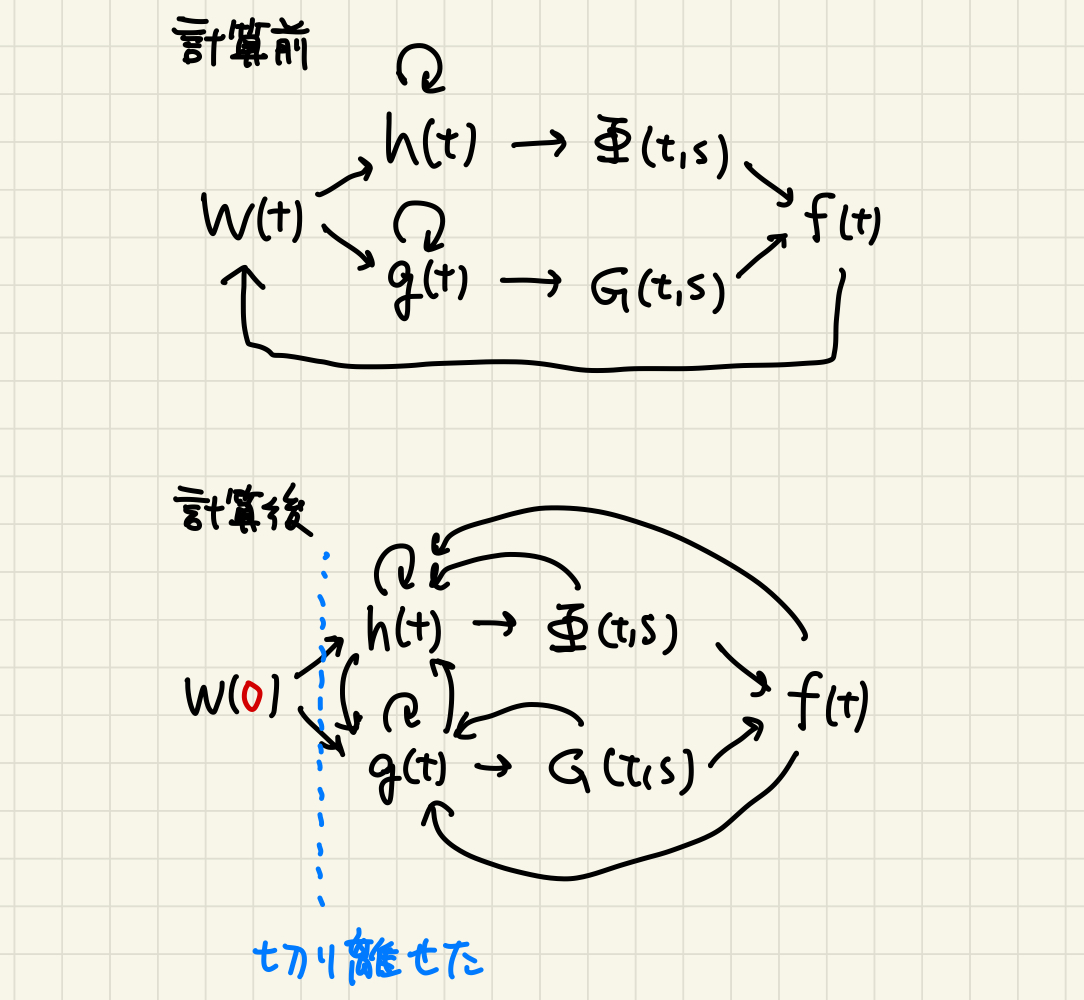
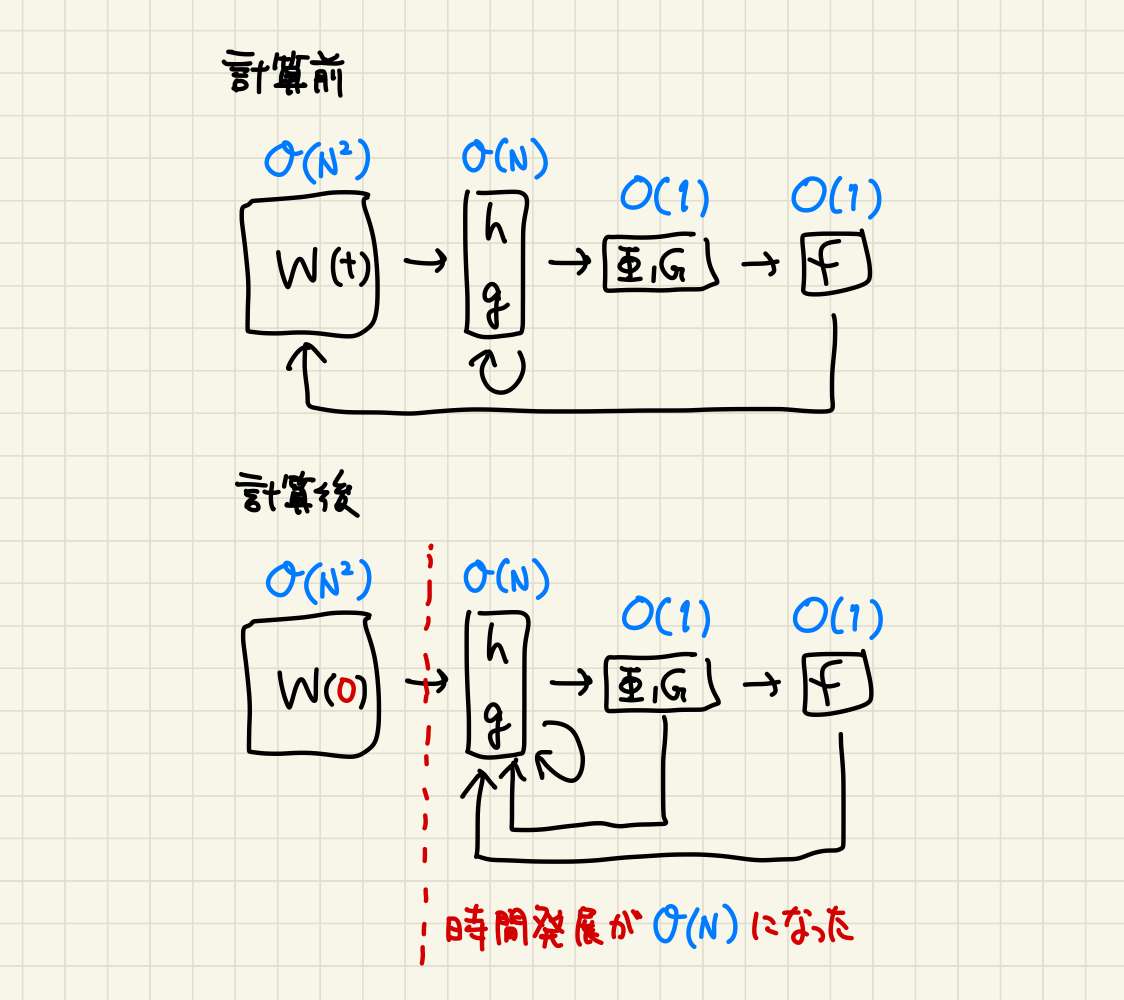
I hate DMFT

diff --git a/topics/dmft_1.html b/topics/dmft_1.html
@@ -76,11 +76,11 @@
     <p>
         次のような深層ニューラルネットワークを考えよう。
         \begin{align}
-            f_\mu &= \frac{1}{\gamma\sqrt{N}} \boldsymbol{w}_L \cdot \phi(\boldsymbol{h}_\mu^L) \\
+            f_\mu &= \frac{1}{\gamma\sqrt{N}} \boldsymbol{w}^L \cdot \phi(\boldsymbol{h}_\mu^L) \\
             \boldsymbol{h}_\mu^{l+1} &= \frac{1}{\sqrt{N}} \boldsymbol{W}^l \phi(\boldsymbol{h}_\mu^l) \\
             \boldsymbol{h}_\mu^1 &= \frac{1}{\sqrt{D}} \boldsymbol{W}^0 \boldsymbol{x}_\mu
         \end{align}
-        ここで $\{\boldsymbol{x}_\mu\}$ は $D$ 次元の入力データ、$\boldsymbol{h}^l_\mu$ はそれに対する第 $l$ 層のニューロンの $N$ 次元pre-activationベクトル、$f_\mu$ は最終層のスカラー出力、
+        ここで $\{\boldsymbol{x}_\mu\}_{\mu\in[P]}$ は $D$ 次元の入力データ、$\boldsymbol{h}^l_\mu$ は各データに対する第 $l$ 層のニューロンの $N$ 次元pre-activationベクトル、$f_\mu$ は最終層のスカラー出力、
         $\boldsymbol{W}^l$ は第 $l$ 層の重み行列、$\phi$ は活性化関数、$\gamma$ は学習のレジームを調整するハイパーパラメータである。
     </p>
     <p>
@@ -126,7 +126,7 @@
         これを実現するために、まず出力のダイナミクスをカーネルで表示する。
         この部分は割と簡単なので直後に説明する。
         難しいのはそのカーネルの時間発展をパラメータを用いずに表す部分だ。
-        動的平均場理論の核心はここにあるので、計算の前にその気持ちと使う道具を紹介する。
+        動的平均場理論の核心はここにあるので、計算の前にその気持ちを紹介する。
         具体的な計算は非常に複雑なため、中間層が1層の場合でウォームアップしてから、一般の深層ネットワークの場合を説明する。
     </p> 
 
@@ -158,7 +158,9 @@
             この結果を味わってみよう。
             $\Delta_\alpha(t)$ は出力 $f_\alpha(t)$ と教師データ $y_\alpha$ を使って簡単に書き下せるので、$f(t)$ の時間発展を考えるにあたっては何も問題ない。
             逆にNTKカーネル $K_{\mu\alpha}^{NTK} (t,t)$ の方はパラメータに依存してしまっている。
-            したがってNTKカーネルの時間発展をパラメータを用いずに巨視変数だけで表すことができれば、出力が閉じた形で表せる。<br>
+            したがってNTKカーネルの時間発展をパラメータを用いずに巨視変数だけで表すことができれば、出力が閉じた形で表せる。
+        </p>
+        <p>
             また別の見方をすると、データ $\alpha$ に対する出力の学習がNTKカーネル $K_{\mu\alpha}^{NTK} (t,t)$ を通して他のデータ $\mu$ の学習に影響を与えているともいえる。
         </p>
         <p class="close-btn">（クリックして非表示）</p>
@@ -168,12 +170,12 @@
         <p>
             特徴量カーネル $\Phi_{\mu\alpha}^{l} (t,s)$ と勾配カーネル $G_{\mu\alpha}^{l} (t,s)$ をそれぞれ次のように定義する。
             \begin{align}
-                \Phi_{\mu\alpha}^{l} (t,s) &= \frac{1}{N} \phi(\boldsymbol{h}_\mu^l(t)) \cdot \phi(\boldsymbol{h}_\alpha^l(s)) \\
-                G_{\mu\alpha}^{l} (t,s) &= \frac{1}{N} \boldsymbol{g}_\mu^l(t) \cdot \boldsymbol{g}_\alpha^l(s)
+                \Phi_{\mu\alpha}^{l} (t,s) &:= \frac{1}{N} \phi(\boldsymbol{h}_\mu^l(t)) \cdot \phi(\boldsymbol{h}_\alpha^l(s)) \\
+                G_{\mu\alpha}^{l} (t,s) &:= \frac{1}{N} \boldsymbol{g}_\mu^l(t) \cdot \boldsymbol{g}_\alpha^l(s)
             \end{align}
             ただし勾配ベクトル $\boldsymbol{g}_\mu^l(t)$ の定義は次の通り。
             $$
-                \boldsymbol{g}_\mu^l(t) = \gamma\sqrt{N} \frac{\partial f_\mu(t)}{\partial \boldsymbol{h}^l_\mu(t)}
+                \boldsymbol{g}_\mu^l(t) := \gamma\sqrt{N} \frac{\partial f_\mu(t)}{\partial \boldsymbol{h}^l_\mu(t)}
             $$
         </p>
         <p>
@@ -329,7 +331,7 @@
         この記事の目標は幅無限大の極限で出力の学習ダイナミクスを理論解析することだった。
         素朴に考えるとパラメータの時間発展が主役になってしまうが、ここまでの計算によってパラメータの初期値とベクトルの時間発展で記述できるようになった。
         残る問題は①パラメータの初期化にランダムネスがあることと、②ベクトルの長さが無限大になってしまうこと。
-        動的平均場理論を用いて、①ガウス積分で期待値を取る方法と②鞍点法によってベクトルではなくスカラーで記述する方法とでそれぞれ解決する。
+        動的平均場理論を用いて、①ガウス積分で期待値を取る方法と②モーメント生成関数を変形してベクトルではなくスカラーで記述する方法とでそれぞれ解決する。
     </p>
     <p>
         動的平均場理論(Dynamical Mean Field Theory, DMFT)とは、1.クエンチした確率変数が 2.大量に集まった系での、 3.巨視変数の 4.ダイナミクスを求める方法である。
@@ -355,34 +357,38 @@
     </ol>
 
     <h3>ウォームアップ：L=1の場合</h3>
+    <figure class="article__image-container">
+        <img src="../images/dmft1/onelayer.jpeg">
+        <figcaption>図2: L=1の場合</figcaption>
+    </figure>
     <p>
         この節では中間層が1層の場合を考える(図2)。
         出力のダイナミクスを記述するにあたって必要なのは $\Phi_{\mu\alpha}^0, \Phi_{\mu\alpha}^1, G_{\mu\alpha}^1, G_{\mu\alpha}^2$ だ。
         このうち端の二つは定義から $\Phi_{\mu\alpha}^0 = K_{\mu\alpha}^x, G_{\mu\alpha}^2 = \boldsymbol{1}$ となるので、中の二つが問題となる。
     </p>
     <p>
-        定義から $\Phi_{\mu\alpha}^1 = \frac{1}{N} \boldsymbol{h}_\mu \cdot \boldsymbol{h}_\alpha, 
+        定義から $\Phi_{\mu\alpha}^1 = \frac{1}{N} \phi(\boldsymbol{h}_\mu) \cdot \phi(\boldsymbol{h}_\alpha), 
         G_{\mu\alpha}^1 = \frac{1}{N} \boldsymbol{g}_\mu \cdot \boldsymbol{g}_\alpha$ なので、
         $\boldsymbol{h}_\mu(t), \boldsymbol{g}_\mu(t)$ を計算すれば良い(ここで層の添字 $l$ は省略している)。
         上でやった計算を境界条件に気をつけて再現すれば、
         \begin{align}
-            \boldsymbol{h}_\mu(t) &= \frac{1}{\sqrt{N}} \boldsymbol{W}^{0}(t)\boldsymbol{x}_\mu \\
-            &= \frac{1}{\sqrt{N}}\left(\boldsymbol{W}^{0}(0) + \frac{\gamma}{\sqrt{N}}\int_0^t ds \sum_\nu\Delta_\nu(s) \boldsymbol{g}_\nu(s)\boldsymbol{x}_\nu^\top\right)\boldsymbol{x}_\mu \\
+            \boldsymbol{h}_\mu(t) &= \frac{1}{\sqrt{D}} \boldsymbol{W}^{0}(t)\boldsymbol{x}_\mu \\
+            &= \frac{1}{\sqrt{D}}\left(\boldsymbol{W}^{0}(0) + \frac{\gamma}{\sqrt{ND}}\int_0^t ds \sum_\nu\Delta_\nu(s) \boldsymbol{g}_\nu(s)\boldsymbol{x}_\nu^\top\right)\boldsymbol{x}_\mu \\
             &= \boldsymbol{\chi}_\mu + \frac{\gamma}{\sqrt{N}}\int_0^t ds \sum_\nu\Delta_\nu(s) \boldsymbol{g}_\nu(s)K_{\mu\nu}^x \\
-            \boldsymbol{g}_\mu(t) &= \boldsymbol{z}(t) \odot \phi(\boldsymbol{h}_\mu(t)) \\
+            \boldsymbol{g}_\mu(t) &= \boldsymbol{z}(t) \odot \dot\phi(\boldsymbol{h}_\mu(t)) \\
             \boldsymbol{z}(t) &= \boldsymbol{w}^{1}(t)\\
             &= \boldsymbol{\xi} + \frac{\gamma}{\sqrt{N}}\int_0^t ds \sum_\nu\Delta_\nu(s) \phi(\boldsymbol{h}_\nu(s))\\
         \end{align}
         となる。
-        ただし第一項をそれぞれ $\boldsymbol{\chi}_\mu := \frac{1}{\sqrt{N}}\boldsymbol{W}^{0}(0)\boldsymbol{x}_\mu, \boldsymbol{\xi} := \boldsymbol{w}^{1}(0)$ とおいた。
+        ただし第一項をそれぞれ $\boldsymbol{\chi}_\mu := \frac{1}{\sqrt{D}}\boldsymbol{W}^{0}(0)\boldsymbol{x}_\mu, \boldsymbol{\xi} := \boldsymbol{w}^{1}(0)$ とおいた。
         どちらも $t$ に依存しない定数であることに注意しよう。
         ネタバレしておくと一般の $L$ ではこれが時間変化するようになって大変になる。
     </p>
     <p>
         パラメータ初期化のランダムネスは $\boldsymbol{\chi}_\mu$ と $\boldsymbol{\xi}$ にのみ現れていて、それがベクトル $\boldsymbol{h}_\mu(t), \boldsymbol{g}_\mu(t)$ に影響し、カーネル $\Phi_{\mu\alpha}^1, G_{\mu\alpha}^1$ に影響している。
-        このランダムネスをまともに扱うと $O(N)$ になってしまうが、知りたいのはカーネル $\Phi_{\mu\alpha}^1, G_{\mu\alpha}^1$ であることを念頭に置いて、これを回避する。
+        この微視的なランダムネスをまともに扱うと $O(N)$ になってしまうが、知りたいのはカーネル $\Phi_{\mu\alpha}^1, G_{\mu\alpha}^1$ であることを念頭に置いて、これを回避する。
         抽象的には、パラメータ初期値という微視変数からカーネルという巨視変数に変数変換をすることで測度の集中が起きるということ。
-        具体的には、 $\boldsymbol{W}^0(0), \boldsymbol{w}^1(0)$ のモーメント生成関数を変形して鞍点法を用いることで、カーネル $\Phi_{\mu\alpha}^1, G_{\mu\alpha}^1$ のモーメント生成関数を入手するということ。
+        具体的には、 $\boldsymbol{W}^0(0), \boldsymbol{w}^1(0)$ のモーメント生成関数を変形することで、カーネル $\Phi_{\mu\alpha}^1, G_{\mu\alpha}^1$ の $O(1)$ の計算方法を入手するということ。
     </p>
 
     <details>
@@ -521,7 +527,7 @@
         \end{align}
     </p>
     <p>
-        このモーメント生成関数をよく見ると、独立な $N$ 個の1体問題の積に分解できることがわかる。
+        このモーメント生成関数をよく見ると、<strong>独立な $N$ 個の1体問題の積に分解できる</strong>ことがわかる。
         すなわち、
         $$
         \left\{
@@ -544,6 +550,116 @@
         $$
         と書ける。$\chi_\mu, \xi, j^\mu, v$ はいずれもスカラーである。
     </p>
+    <p>
+        1体のモーメント生成関数 $Z_1$ は $i$ によらない点に注目しよう。
+        N体のモーメント生成関数 $Z$ がidenticalな $Z_1$ の積で書けるということは、ベクトル $\boldsymbol{\chi}_\mu, \boldsymbol{\xi}$ の各成分が独立同分布に従う確率変数であることを意味する。
+    </p>
+    <p>
+        さらに $\boldsymbol{h}_\mu(t), \boldsymbol{g}_\mu(t)$ の表式を確認すると、こちらも成分 $i$ ごとの相互作用が存在せず、
+        \begin{align}
+            h_\mu(t) &= \chi_\mu + \frac{\gamma}{\sqrt{N}}\int_0^t ds \sum_\nu\Delta_\nu(s) g_\nu(s)K_{\mu\nu}^x \\
+            g_\mu(t) &= z(t) \odot \dot\phi(h_\mu(t)) \\
+            z(t) &= \xi + \frac{\gamma}{\sqrt{N}}\int_0^t ds \sum_\nu\Delta_\nu(s) \phi(h_\nu(s))\\
+        \end{align}
+        と各成分の時間発展を独立に記述できることがわかる。
+    </p>
+    <p>
+        したがって、巨視変数であるカーネルの期待値は次のように求められる。
+        \begin{align}
+            \Phi^1_{\mu\alpha}(t,s) &= \left\langle\frac{1}{N}\phi(\boldsymbol{h}_\mu(t)) \cdot \phi(\boldsymbol{h}_\alpha(s))\right\rangle_{\{\boldsymbol{\chi}_\mu\}, \boldsymbol{\xi}} \\
+            &= \left\langle\phi(h_\mu(t)) \phi(h_\alpha(s))\right\rangle_{\{\chi_\mu\}, \xi} \\
+            G^1_{\mu\alpha}(t,s) &= \left\langle\frac{1}{N}\boldsymbol{g}_\mu(t) \cdot \boldsymbol{h}_\alpha(s)\right\rangle_{\{\boldsymbol{\chi}_\mu\}, \boldsymbol{\xi}} \\
+            &= \left\langle g_\mu(t) g_\alpha(s)\right\rangle_{\{\chi_\mu\}, \xi}
+        \end{align}
+    </p>
+    <details>
+        <summary>
+            ここで $\langle\rangle_{\{\chi_\mu\}, \xi}$ とは、$\boldsymbol{\chi} \sim \mathcal{N}(0,\boldsymbol{K}^x), \xi \sim \mathcal{N}(0,1)$ というガウシアンでの期待値である。（クリックして表示）
+        </summary>
+        <p>
+            その理由を説明する。
+            一体問題のモーメント生成関数は次のようにさらに分解できる。
+            $$
+            \left\{
+            \begin{align}
+                Z_1[\{j^\mu\}_{\mu \in [P]}, v] &= Z_1^\chi[\boldsymbol{j}] * Z_1^\xi[v] \\
+                Z_1^\chi[\boldsymbol{j}] &= \int \frac{d\boldsymbol{\chi}d \boldsymbol{\hat\chi}}{(2\pi)^P}
+                \exp\left(
+                    i\boldsymbol{\hat\chi} \cdot \boldsymbol{\chi}
+                    - \frac{1}{2} \boldsymbol{\hat\chi}^\top \boldsymbol{K}^x \boldsymbol{\hat\chi}
+                    + \boldsymbol{j} \cdot \boldsymbol{\chi}
+                \right) \\
+                Z_1^\xi[v] &= \int\frac{d\xi d\hat\xi}{2\pi}\exp\left( i\hat\xi \xi - \frac{1}{2}\hat\xi^2 + v \xi \right)
+            \end{align}
+            \right.
+            $$
+            ベクトル $\boldsymbol{j}$ や $\boldsymbol{\chi}$ は長さ $N$ ではなく長さ $P$ であることに注意。
+            すなわち素子 $i$ ではなくデータ $\mu$ のインデックスを持つ確率変数である。
+            同様に $\boldsymbol{K}^x$ は $K_{\mu\alpha}^x$ を $(\mu, \alpha)$ 成分に持つ $P\times P$ 行列である。
+        </p>
+        <p>
+            これをよく見ると、$Z_1^\chi[\boldsymbol{j}]$ は $\boldsymbol{\chi} \sim \mathcal{N}(0,\boldsymbol{K}^x)$ の時のモーメント生成関数で、$Z_1^\xi[v]$ は $\xi \sim \mathcal{N}(0,1)$ の時のモーメント生成関数であることに気づく。
+            実際に、$\delta$ 関数のフーリエ変換表示
+            $$
+                \delta(\boldsymbol{\hat\chi}-i\boldsymbol{j}) = \int \frac{d\boldsymbol{\chi}}{(2\pi)^P} \exp(\boldsymbol{\chi}\cdot(i\boldsymbol{\hat\chi}+\boldsymbol{j}))
+            $$
+            を用いて、
+            \begin{align}
+                Z_1^\chi[\boldsymbol{j}] &= \int d\boldsymbol{\hat\chi} \delta(\boldsymbol{\hat\chi}-i\boldsymbol{j})
+                \exp\left(- \frac{1}{2} \boldsymbol{\hat\chi}^\top \boldsymbol{K}^x \boldsymbol{\hat\chi}\right) \\
+                &= \exp\left(\frac{1}{2} \boldsymbol{j}^\top \boldsymbol{K}^x \boldsymbol{j}\right)
+            \end{align}
+            と変形でき、これは $\boldsymbol{\chi} \sim \mathcal{N}(0,\boldsymbol{K}^x)$ の時のモーメント生成関数である。
+            $\xi$ についても同様。
+        </p>
+        <p>
+            振り返ってみるとモーメント生成関数のガウス積分をした後にガウス積分の逆をしているので、回り道をしたように見える。
+            実際十分な洞察力があればガウス積分をする前の形式から独立な1体問題に分解できることを見抜けると思うが、わかりやすさのためにここではこのように進めた。
+        </p>
+        <p class="close-btn">(クリックして非表示)</p>
+    </details>
+    <p>
+        以上より、出力ダイナミクスを $O(1)$ の計算量で記述することができた。
+        $$
+        \left\{
+        \begin{align}
+            \boldsymbol{\chi} &\sim \mathcal{N}(0,\boldsymbol{K}^x) \\
+            \xi &\sim \mathcal{N}(0,1) \\
+            h_\mu(t) &= \chi_\mu + \frac{\gamma}{\sqrt{N}}\int_0^t ds \sum_\nu\Delta_\nu(s) g_\nu(s)K_{\mu\nu}^x \\
+            g_\mu(t) &= z(t) \odot \dot\phi(h_\mu(t)) \\
+            z(t) &= \xi + \frac{\gamma}{\sqrt{N}}\int_0^t ds \sum_\nu\Delta_\nu(s) \phi(h_\nu(s))\\
+            \Phi^1_{\mu\alpha}(t,t) &= \left\langle\phi(h_\mu(t)) \phi(h_\alpha(t))\right\rangle_{\boldsymbol{\chi}, \xi} \\
+            G^1_{\mu\alpha}(t,t) &= \left\langle g_\mu(t) g_\alpha(t)\right\rangle_{\boldsymbol{\chi}, \xi} \\
+            \frac{\partial f_\mu}{\partial t} &= \sum_\alpha \left(K_{\mu\alpha}^x G^1_{\mu\alpha}(t,t) + \Phi^1_{\mu\alpha}(t,t)\right) \Delta_\alpha (t) \\
+        \end{align}
+        \right.
+        $$
+    </p>
+    <p>
+        数値計算する場合は、まずガウス分布から $\boldsymbol{\chi}_\mu, \xi$ を多数サンプリングする。
+        次にそれぞれのサンプルを使って $h_\mu(t), g_\mu(t), z(t)$ の時間発展を好きな $T$ まで計算する。
+        続いて各時刻で $\Phi^1_{\mu\alpha}(t,t), G^1_{\mu\alpha}(t,t)$ のサンプル平均を求める。
+        最後に一番下の式を使って出力の時間発展を計算する。
+    </p>
+
+
+    <details>
+        <summary>通常のDMFTとの違い（クリックして表示）</summary>
+        <p>
+            <a href="https://doi.org/10.1103/PhysRevLett.61.259">Sompolinsky et. al.</a>とか<a href="https://doi.org/10.48550/arXiv.1901.10416">Helias & Dahmen</a>
+            で紹介されたような通常のDMFTでは、相互作用する多数の微視変数で書いたモーメント生成関数を変形して、巨視変数である平均場との相互作用の独立な積に帰着させるという方法が用いられていた。
+            それに対して、今回の方法では、微視変数 $\boldsymbol{\chi}_\mu, \boldsymbol{\xi}$ の時点で独立な1体問題の積に分解できている。
+            モーメント生成関数を導入したのは巨視変数であるカーネルを少ない自由度で記述するための見通しが良くなるからだ。
+            この点で今回のDMFTの使い方は非典型的である。
+        </p>
+        <p>
+            普通のDMFTと共通するのはモーメント生成関数(モーメント母関数)を導入して指数関数の肩でごちゃごちゃ計算するという点なので、<strong>「DMFTはお母さんの肩をもむ」</strong>という語呂合わせで覚えよう。
+        </p>
+        <p class="close-btn">(クリックして非表示)</p>
+    </details>
+
+
+    <h3>本題：一般のLの場合</h3>
     <details>
         <summary>
             巨視変数であるカーネルに変数変換して、（クリックして表示）
@@ -558,36 +674,37 @@
         <p>
             次に、$\boldsymbol{\chi}_\mu, \boldsymbol{\xi}$ に変数変換した時と同様に、$\delta$ 関数を使ってカーネルの定義式となる恒等式を導入する。
             \begin{align}
-                1 &= N \int d\Phi_{\mu\alpha}(t,s) \delta\left(N \Phi_{\mu\alpha}(t,s) - \phi(\boldsymbol{h}_\mu(t)) \cdot \phi(\boldsymbol{h}_\alpha(s))\right) \\
-                &= Ndtds \int \frac{d\Phi_{\mu\alpha}(t,s)d\hat\Phi_{\mu\alpha}(t,s)}{2\pi i} \exp\left(dtds\hat\Phi_{\mu\alpha}(t,s)\left(N\Phi_{\mu\alpha}(t,s) - \phi(\boldsymbol{h}_\mu(t)) \cdot \phi(\boldsymbol{h}_\alpha(s))\right)\right) \\
-                1 &= N \int dG_{\mu\alpha}(t,s) \delta\left(N G_{\mu\alpha}(t,s) - \boldsymbol{g}_\mu(t)\cdot\boldsymbol{g}_\alpha(s)\right) \\
-                &= Ndtds \int \frac{dG_{\mu\alpha}(t,s)d\hat{G}_{\mu\alpha}(t,s)}{2\pi i} \exp\left(dtds\hat{G}_{\mu\alpha}(t,s)\left(N G_{\mu\alpha}(t,s) - \boldsymbol{g}_\mu(t)\cdot\boldsymbol{g}_\alpha(s)\right)\right) 
+                1 &= N \int d\Phi^1_{\mu\alpha}(t,s) \delta\left(N \Phi^1_{\mu\alpha}(t,s) - \phi(\boldsymbol{h}_\mu(t)) \cdot \phi(\boldsymbol{h}_\alpha(s))\right) \\
+                &= Ndtds \int \frac{d\Phi^1_{\mu\alpha}(t,s)d\hat\Phi^1_{\mu\alpha}(t,s)}{2\pi i} \exp\left(dtds\hat\Phi^1_{\mu\alpha}(t,s)\left(N\Phi^1_{\mu\alpha}(t,s) - \phi(\boldsymbol{h}_\mu(t)) \cdot \phi(\boldsymbol{h}_\alpha(s))\right)\right) \\
+                1 &= N \int dG^1_{\mu\alpha}(t,s) \delta\left(N G^1_{\mu\alpha}(t,s) - \boldsymbol{g}_\mu(t)\cdot\boldsymbol{g}_\alpha(s)\right) \\
+                &= Ndtds \int \frac{dG^1_{\mu\alpha}(t,s)d\hat{G}^1_{\mu\alpha}(t,s)}{2\pi i} \exp\left(dtds\hat{G}^1_{\mu\alpha}(t,s)\left(N G^1_{\mu\alpha}(t,s) - \boldsymbol{g}_\mu(t)\cdot\boldsymbol{g}_\alpha(s)\right)\right) 
             \end{align}
         </p>
         <p>
             最後に、全ての $\mu, \alpha, t,s$ に関する恒等式を、はじめの式の両辺に掛ける。
             \begin{align}
                 Z[\{\boldsymbol{j}_\mu\}_{\mu \in [P]}, \boldsymbol{v}]
-                &\propto \int \prod_{\mu, \alpha, t, s} d\Phi d\hat\Phi dG d\hat{G} \exp\left(NS[\Phi, \hat\Phi, G, \hat{G}]\right) \\
-                S[\Phi, \hat\Phi, G, \hat{G}]
+                &\propto \int \prod_{\mu, \alpha, t, s} d\Phi^1 d\hat\Phi^1 dG^1 d\hat{G}^1 \exp\left(NS[\Phi^1, \hat\Phi^1, G^1, \hat{G}^1]\right) \\
+                S[\Phi^1, \hat\Phi^1, G^1, \hat{G}^1]
                 &= \sum_{\mu, \alpha}\int dtds \left(
-                    \hat\Phi \Phi + \hat{G} G
-                    - \frac{1}{N}\hat\Phi \phi(\boldsymbol{h}_\mu(t)) \cdot \phi(\boldsymbol{h}_\alpha(s))
-                    - \frac{1}{N}\hat{G} \boldsymbol{g}_\mu(t) \cdot \boldsymbol{g}_\alpha(s)
+                    \hat\Phi^1 \Phi^1 + \hat{G}^1 G^1
+                    - \frac{1}{N}\hat\Phi^1 \phi(\boldsymbol{h}_\mu(t)) \cdot \phi(\boldsymbol{h}_\alpha(s))
+                    - \frac{1}{N}\hat{G}^1 \boldsymbol{g}_\mu(t) \cdot \boldsymbol{g}_\alpha(s)
                 \right) \\
                 &\qquad + \frac{1}{N} \sum_{i=1}^N \ln Z_1[\{j^\mu_i\}_{\mu \in [P]}, v_i] \\
-                &= \sum_{\mu, \alpha}\int dtds \left( \hat\Phi \Phi + \hat{G} G \right) \\
+                &= \sum_{\mu, \alpha}\int dtds \left( \hat\Phi^1 \Phi^1 + \hat{G}^1 G^1 \right) \\
                 &\qquad + \frac{1}{N} \sum_{i=1}^N \ln \left(
                     Z_1[\{j^\mu_i\}_{\mu \in [P]}, v_i]
                     \exp\left(
                         -\sum_{\mu, \alpha}\int dtds \left(
-                            \hat\Phi \phi(h^\mu_i(t)) \phi(h^\alpha_i(s))
-                            + \hat{G} g^\mu_i(t) \cdot g^\alpha_i(s)
+                            \hat\Phi^1 \phi(h^\mu_i(t)) \phi(h^\alpha_i(s))
+                            + \hat{G}^1 g^\mu_i(t) \cdot g^\alpha_i(s)
                         \right)
                     \right)
                 \right)
             \end{align}
-            ただし例えば $\Phi = \Phi_{\mu\alpha}(t,s)$ と略記している。
+            ただし例えば $\Phi^1 = \Phi^1_{\mu\alpha}(t,s)$ と略記している。
+            これでベクトル $\boldsymbol{\chi}_\mu, \boldsymbol{\xi}$ とカーネル $\Phi^1_{\mu\alpha}(t,s), G^1_{\mu\alpha}(t,s)$ が独立に扱えるようになった。
         </p>
         <details>
             <summary>通常のDMFTとの違い（クリックして表示）</summary>
@@ -598,7 +715,7 @@
                 この点で今回のDMFTの使い方は非典型的である。
             </p>
             <p>
-                普通のDMFTとの共通点はモーメント生成関数(モーメント母関数)を導入して指数関数の肩でごちゃごちゃ計算するという点なので、「DMFTはお母さんの肩をもむ」というスローガンで覚えよう。
+                普通のDMFTと共通するのはモーメント生成関数(モーメント母関数)を導入して指数関数の肩でごちゃごちゃ計算するという点なので、<strong>「DMFTはお母さんの肩をもむ」</strong>というスローガンで覚えよう。
             </p>
             <p class="close-btn">(クリックして非表示)</p>
         </details>
@@ -607,21 +724,32 @@
 
     <details>
         <summary>
-            作用 $S$ について鞍点方程式を求めると、次のようになる。（クリックして表示）
+            作用 $S$ について鞍点方程式を求めると、次の表式を得る。（クリックして表示）
         </summary>
         <p>
-            hoge
+            ここでいう鞍点法とは、ある汎函数が $y = \int dx \exp(Ng(x))$ のように表されている時の、$N\to\infty$ での近似法である。
+            $N$ が小さい時は広い範囲の $x$ が積分に寄与するが、$N$ が大きくなると $g(x)$ の最大値を与える $x$ の寄与が圧倒的になり、他の部分の寄与は無視できる。
+            したがって $y \sim \exp(Ng(x^*))$ と近似できる。ただし $x^*$ は $g(x)$ の最大値を与える $x$ であり、$\frac{dg(x)}{dx}|_{x=x^*} = 0$ を満たす。
+            定数倍はズレるけど今回は気にしなくてOK。
+        </p>
+        <p>
+            今の状況は、$Z \propto \int d\Phi^1 d\hat\Phi^1 dG^1 d\hat{G}^1 \exp\left(NS[\Phi^1, \hat\Phi^1, G^1, \hat{G}^1]\right)$ と表せていて、
+            $S$ が $O_N(1)$ の大きさを持つので、鞍点法が使える。具体的な鞍点方程式は以下の通り。
+            \begin{align}
+                \frac{\delta S}{\delta \Phi^1_{\mu\alpha}(t,s)} &= 0 \to \hat\Phi^1_{\mu\alpha}(t,s) = 0 \\
+                \frac{\delta S}{\delta \hat\Phi^1_{\mu\alpha}(t,s)} &= 0 \to \Phi^1_{\mu\alpha}(t,s) = 0 \\
+                \frac{\delta S}{\delta G^1_{\mu\alpha}(t,s)} &= 0 \to \hat{G}^1_{\mu\alpha}(t,s) = 0 \\
+                \frac{\delta S}{\delta \hat{G}^1_{\mu\alpha}(t,s)} &= 0 \to G^1_{\mu\alpha}(t,s) = 0
+            \end{align}
+        </p>
+        <p>
+            これを解くと、</p>
+        <p>
+            余談だけど、鞍点法というより極値法と呼んだ方が実態に即していると思う。
+            どうして鞍点法と呼ぶかは分からない。
         </p>
         <p class="close-btn">(クリックして非表示)</p>
     </details>
-    <p>
-        $$
-            Z[\{\boldsymbol{j}_\mu\}_{\mu \in [P]}, \boldsymbol{v}]
-        $$
-    </p>
-
-
-    <h3>本題：一般のLの場合</h3>
 
     <h3>元論文の誤植</h3>
     <p>ページ数はarxivのv3のPDFファイルに準拠している。</p>
